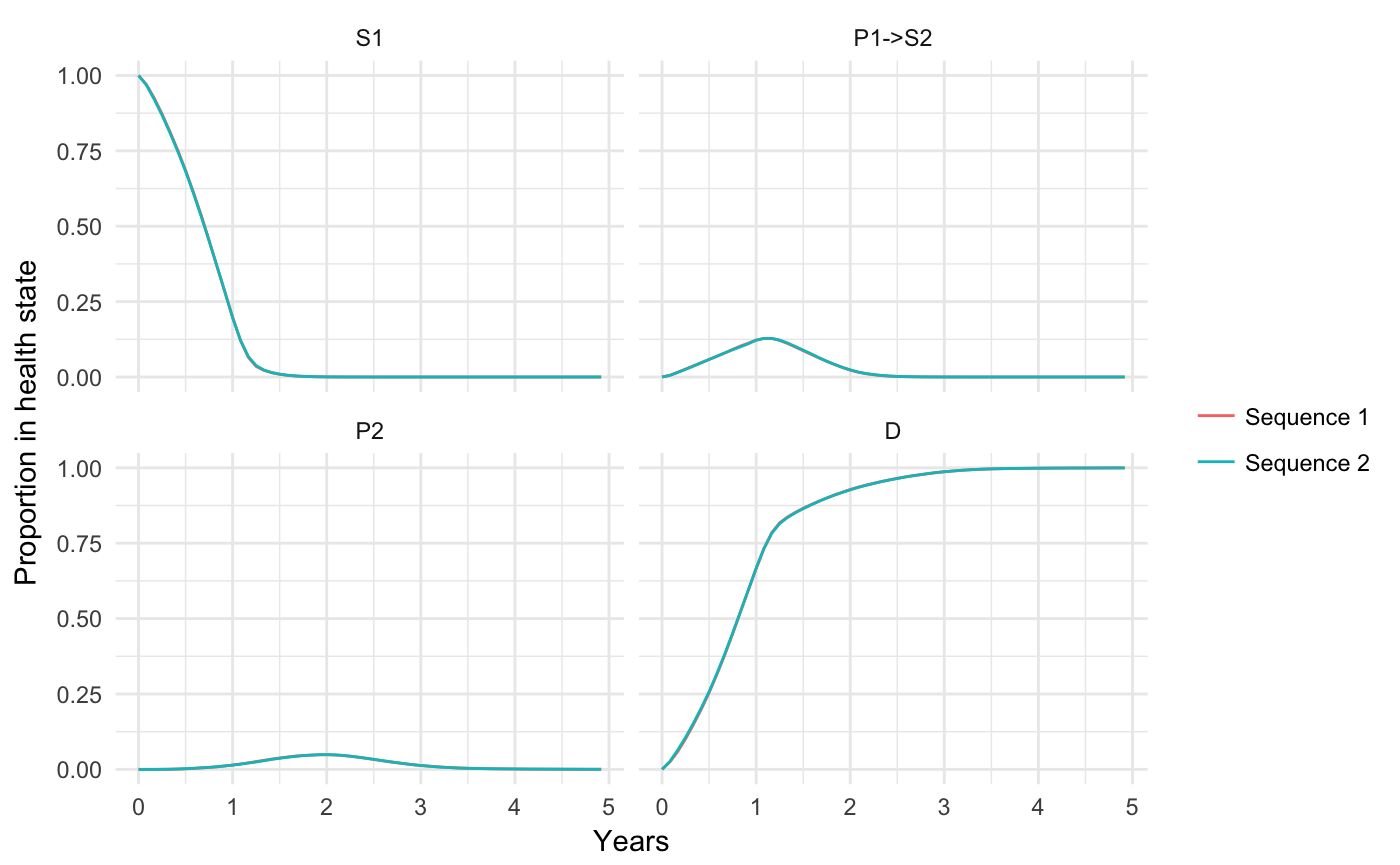
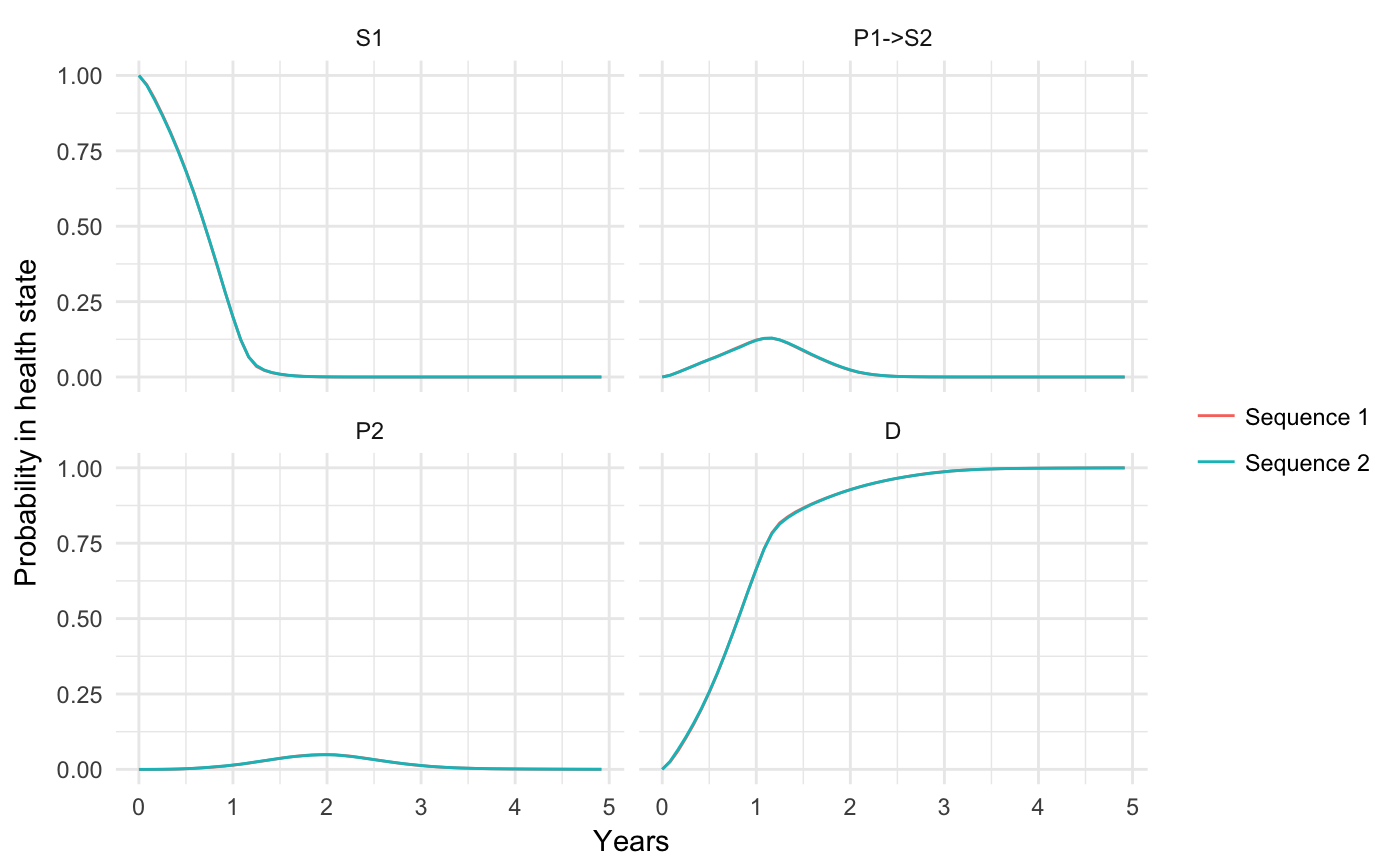
Modfiy y-axis in plot in tutorial

Changed region(s): [[0.0, 0.3746, 0.0307, 0.6243], [0.0, 0.3121, 0.0307, 0.3434]]

diff --git a/docs/articles/tutorial.html b/docs/articles/tutorial.html
@@ -63,7 +63,7 @@
     <div class="page-header toc-ignore">
       <h1>Tutorial</h1>
             
-            <h4 class="date">2018-09-19</h4>
+            <h4 class="date">2018-09-21</h4>
       
       <small class="dont-index">Source: <a href="https://github.com/InnovationValueInitiative/IVI-NSCLC/blob/master/vignettes/tutorial.Rmd"><code>vignettes/tutorial.Rmd</code></a></small>
       <div class="hidden name"><code>tutorial.Rmd</code></div>
@@ -195,11 +195,11 @@ transmod_params &lt;-<span class="st"> </span><span class="kw"><a href="../refer
 ## match those in 'transmod_data')
 transmod_params<span class="op">$</span>coefs<span class="op">$</span>scale[<span class="dv">1</span><span class="op">:</span><span class="dv">5</span>, <span class="dv">1</span><span class="op">:</span><span class="dv">4</span>]</code></pre></div>
 <pre><code>##      osi_s1p1_scale osi_s1d_scale osi_s2p2_scale pbdc_s2p2_scale
-## [1,]    -0.41873899     0.8343509      0.1416916       1.7047495
-## [2,]    -0.07777555     1.5186355      1.8797555      -0.1099338
-## [3,]     2.48485684     2.2906456      1.7393430       1.3573724
-## [4,]    -0.06693445     1.7258585      3.4885565       2.0153605
-## [5,]     2.91706620     1.8535018      0.7115502       4.0109103</code></pre>
+## [1,]      0.2538743    -0.1140686     -0.2158715       2.4759371
+## [2,]     -0.1497398     1.8551240      2.0758010      -1.3504679
+## [3,]      1.8831957     0.4837332      1.8531591      -0.5648202
+## [4,]      1.6654387     1.3369908     -0.9478725      -0.3769577
+## [5,]      0.5339140     2.1661511      1.3552026       0.6294154</code></pre>
 <div class="sourceCode"><pre class="sourceCode r"><code class="sourceCode r"><span class="co"># Health state transition model</span>
 transmod &lt;-<span class="st"> </span>hesim<span class="op">::</span><span class="kw"><a href="http://www.rdocumentation.org/packages/hesim/topics/create_IndivCtstmTrans">create_IndivCtstmTrans</a></span>(transmod_params, transmod_data, tmat)
 <span class="kw">class</span>(transmod)</code></pre></div>
@@ -243,11 +243,11 @@ plot_data[, strategy_name <span class="op">:</span><span class="er">=</span><spa
                                  <span class="dt">labels =</span> <span class="kw">paste0</span>(<span class="st">"Sequence "</span>, <span class="dv">1</span><span class="op">:</span><span class="kw">length</span>(txseqs)))]
 <span class="kw"><a href="http://www.rdocumentation.org/packages/ggplot2/topics/ggplot">ggplot</a></span>(plot_data[t <span class="op">&lt;</span><span class="st"> </span><span class="dv">5</span>], <span class="kw"><a href="http://www.rdocumentation.org/packages/ggplot2/topics/aes">aes</a></span>(<span class="dt">x =</span> t, <span class="dt">y =</span> prob_mean, <span class="dt">col =</span> strategy_name)) <span class="op">+</span>
 <span class="st">  </span><span class="kw"><a href="http://www.rdocumentation.org/packages/ggplot2/topics/geom_path">geom_line</a></span>() <span class="op">+</span><span class="st"> </span><span class="kw"><a href="http://www.rdocumentation.org/packages/ggplot2/topics/facet_wrap">facet_wrap</a></span>(<span class="op">~</span>state_name) <span class="op">+</span><span class="st"> </span>
-<span class="st">  </span><span class="kw"><a href="http://www.rdocumentation.org/packages/ggplot2/topics/labs">xlab</a></span>(<span class="st">"Years"</span>) <span class="op">+</span><span class="st"> </span><span class="kw"><a href="http://www.rdocumentation.org/packages/ggplot2/topics/labs">ylab</a></span>(<span class="st">"Proportion in health state"</span>) <span class="op">+</span>
+<span class="st">  </span><span class="kw"><a href="http://www.rdocumentation.org/packages/ggplot2/topics/labs">xlab</a></span>(<span class="st">"Years"</span>) <span class="op">+</span><span class="st"> </span><span class="kw"><a href="http://www.rdocumentation.org/packages/ggplot2/topics/labs">ylab</a></span>(<span class="st">"Probability in health state"</span>) <span class="op">+</span>
 <span class="st">  </span><span class="kw"><a href="http://www.rdocumentation.org/packages/ggplot2/topics/scale_hue">scale_color_discrete</a></span>(<span class="dt">name =</span> <span class="st">""</span>) <span class="op">+</span>
 <span class="st">  </span><span class="kw"><a href="http://www.rdocumentation.org/packages/ggplot2/topics/ggtheme">theme_minimal</a></span>()</code></pre></div>
 <p><img src="tutorial_files/figure-html/unnamed-chunk-12-1.png" width="700"></p>
-<p>We might also want to examine specific quantiles of the state probability curves. Code coming soon…</p>
+<p>We can also compute mean life-years by health state.</p>
 </div>
 <div id="qalys" class="section level4">
 <h4 class="hasAnchor">
